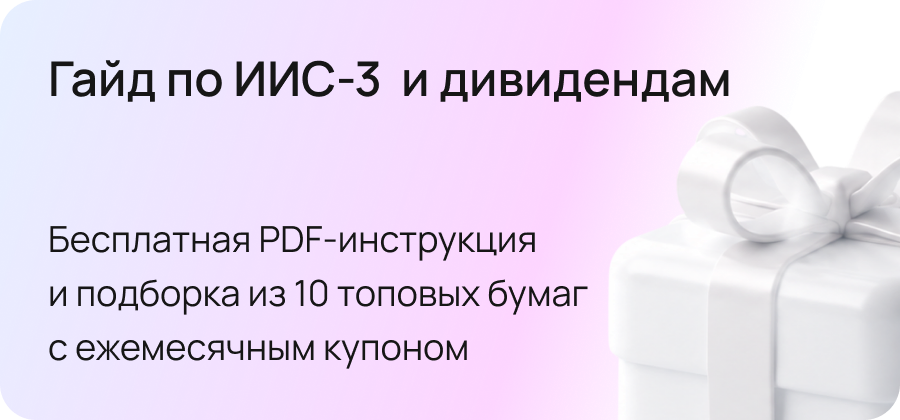
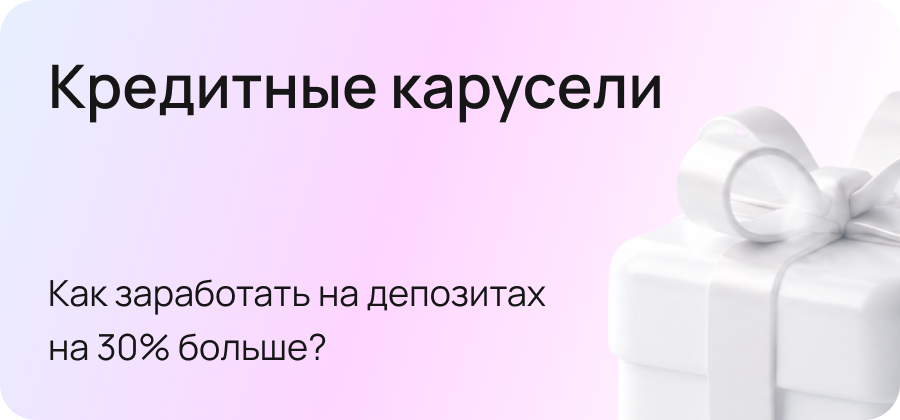
content: заменён баннер 'Гайд по ИИС-3' на 'Кредитные карусели'
Новый лидмагнит от дизайнера, тот же формат/позиция (третий баннер в карусели), обновлены alt-текст и метка аналитики.

diff --git a/src/widgets/banners-carousel/banners-carousel.tsx b/src/widgets/banners-carousel/banners-carousel.tsx
@@ -89,7 +89,7 @@ export const BannersCarousel: React.FC<BannersCarouselProps> = ({
   const handleOpenGiftGuide = () => {
     triggerHaptic('medium');
     AnalyticsService.track('lead_magnet_open', { source: 'carousel_gift_banner' });
-    openPostLink('https://t.me/investfuture', 'Гайд по ИИС-3 и дивидендам');
+    openPostLink('https://t.me/investfuture', 'Кредитные карусели');
   };
 
   const handleOpenResources = () => {
@@ -139,7 +139,7 @@ export const BannersCarousel: React.FC<BannersCarouselProps> = ({
       >
         <img
           src="/figma_assets/exact_banner_gift.png"
-          alt="Гайд по ИИС-3 и дивидендам"
+          alt="Кредитные карусели"
           className="w-full h-full object-cover pointer-events-none"
         />
       </div>
